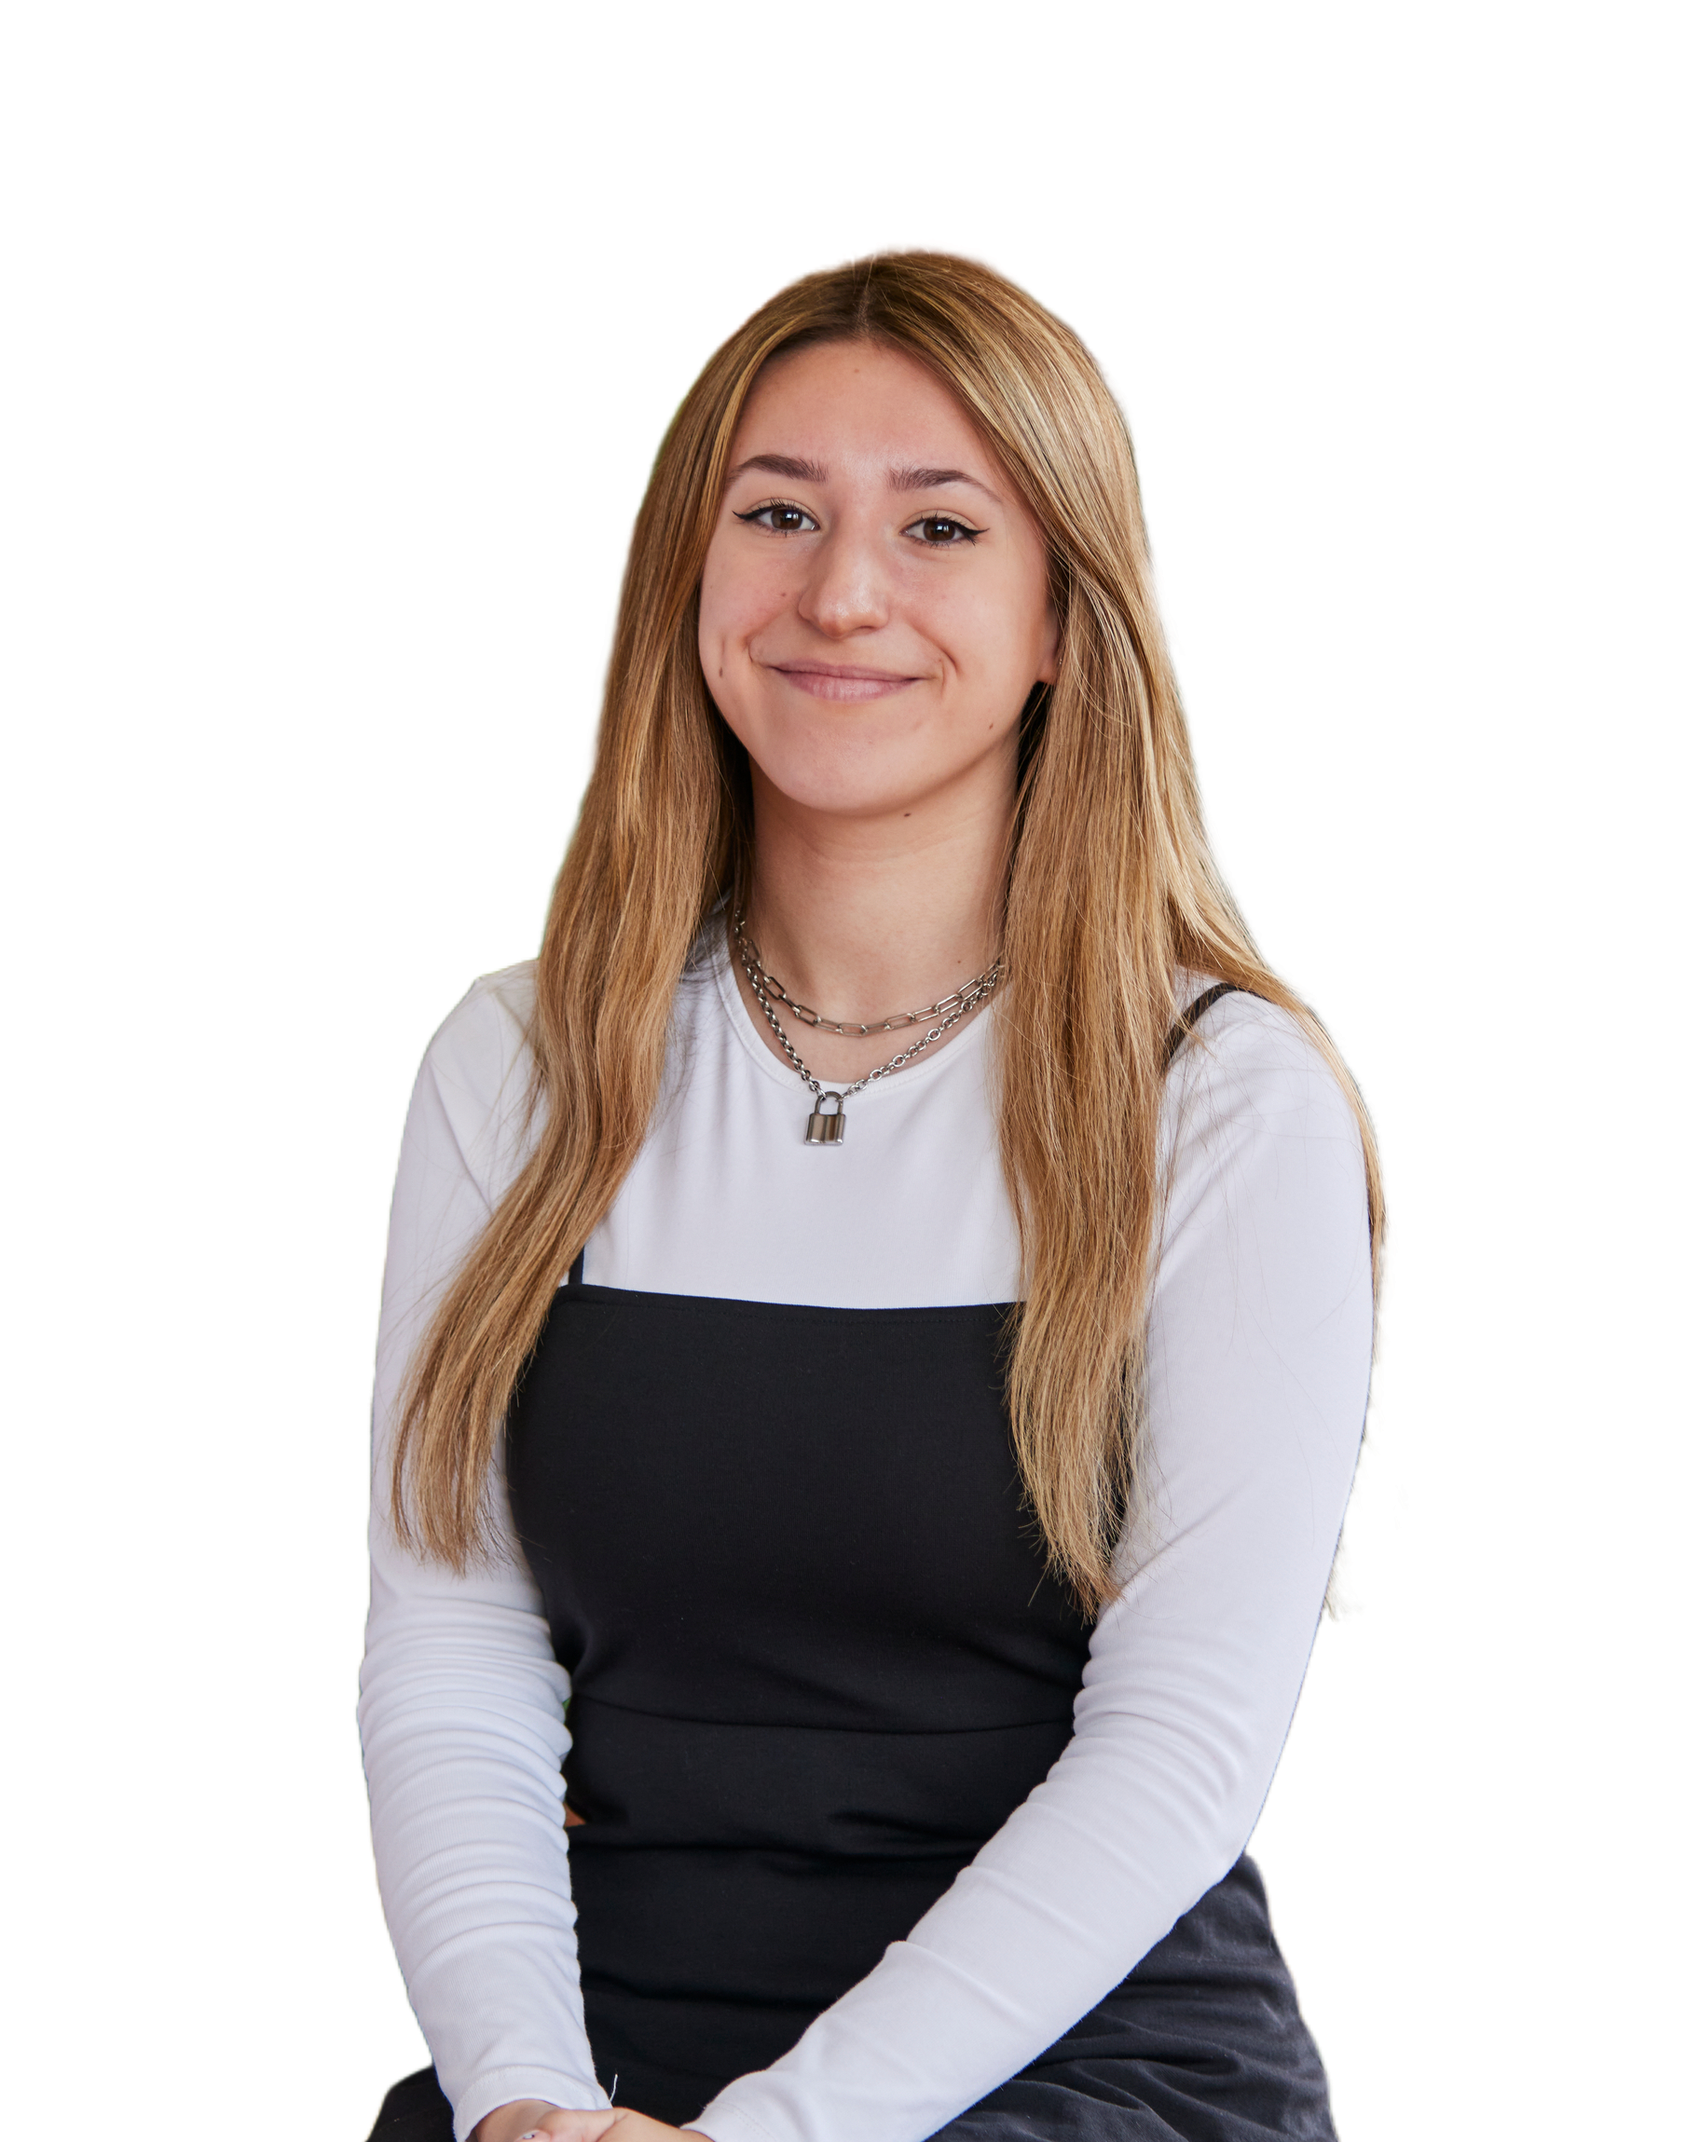
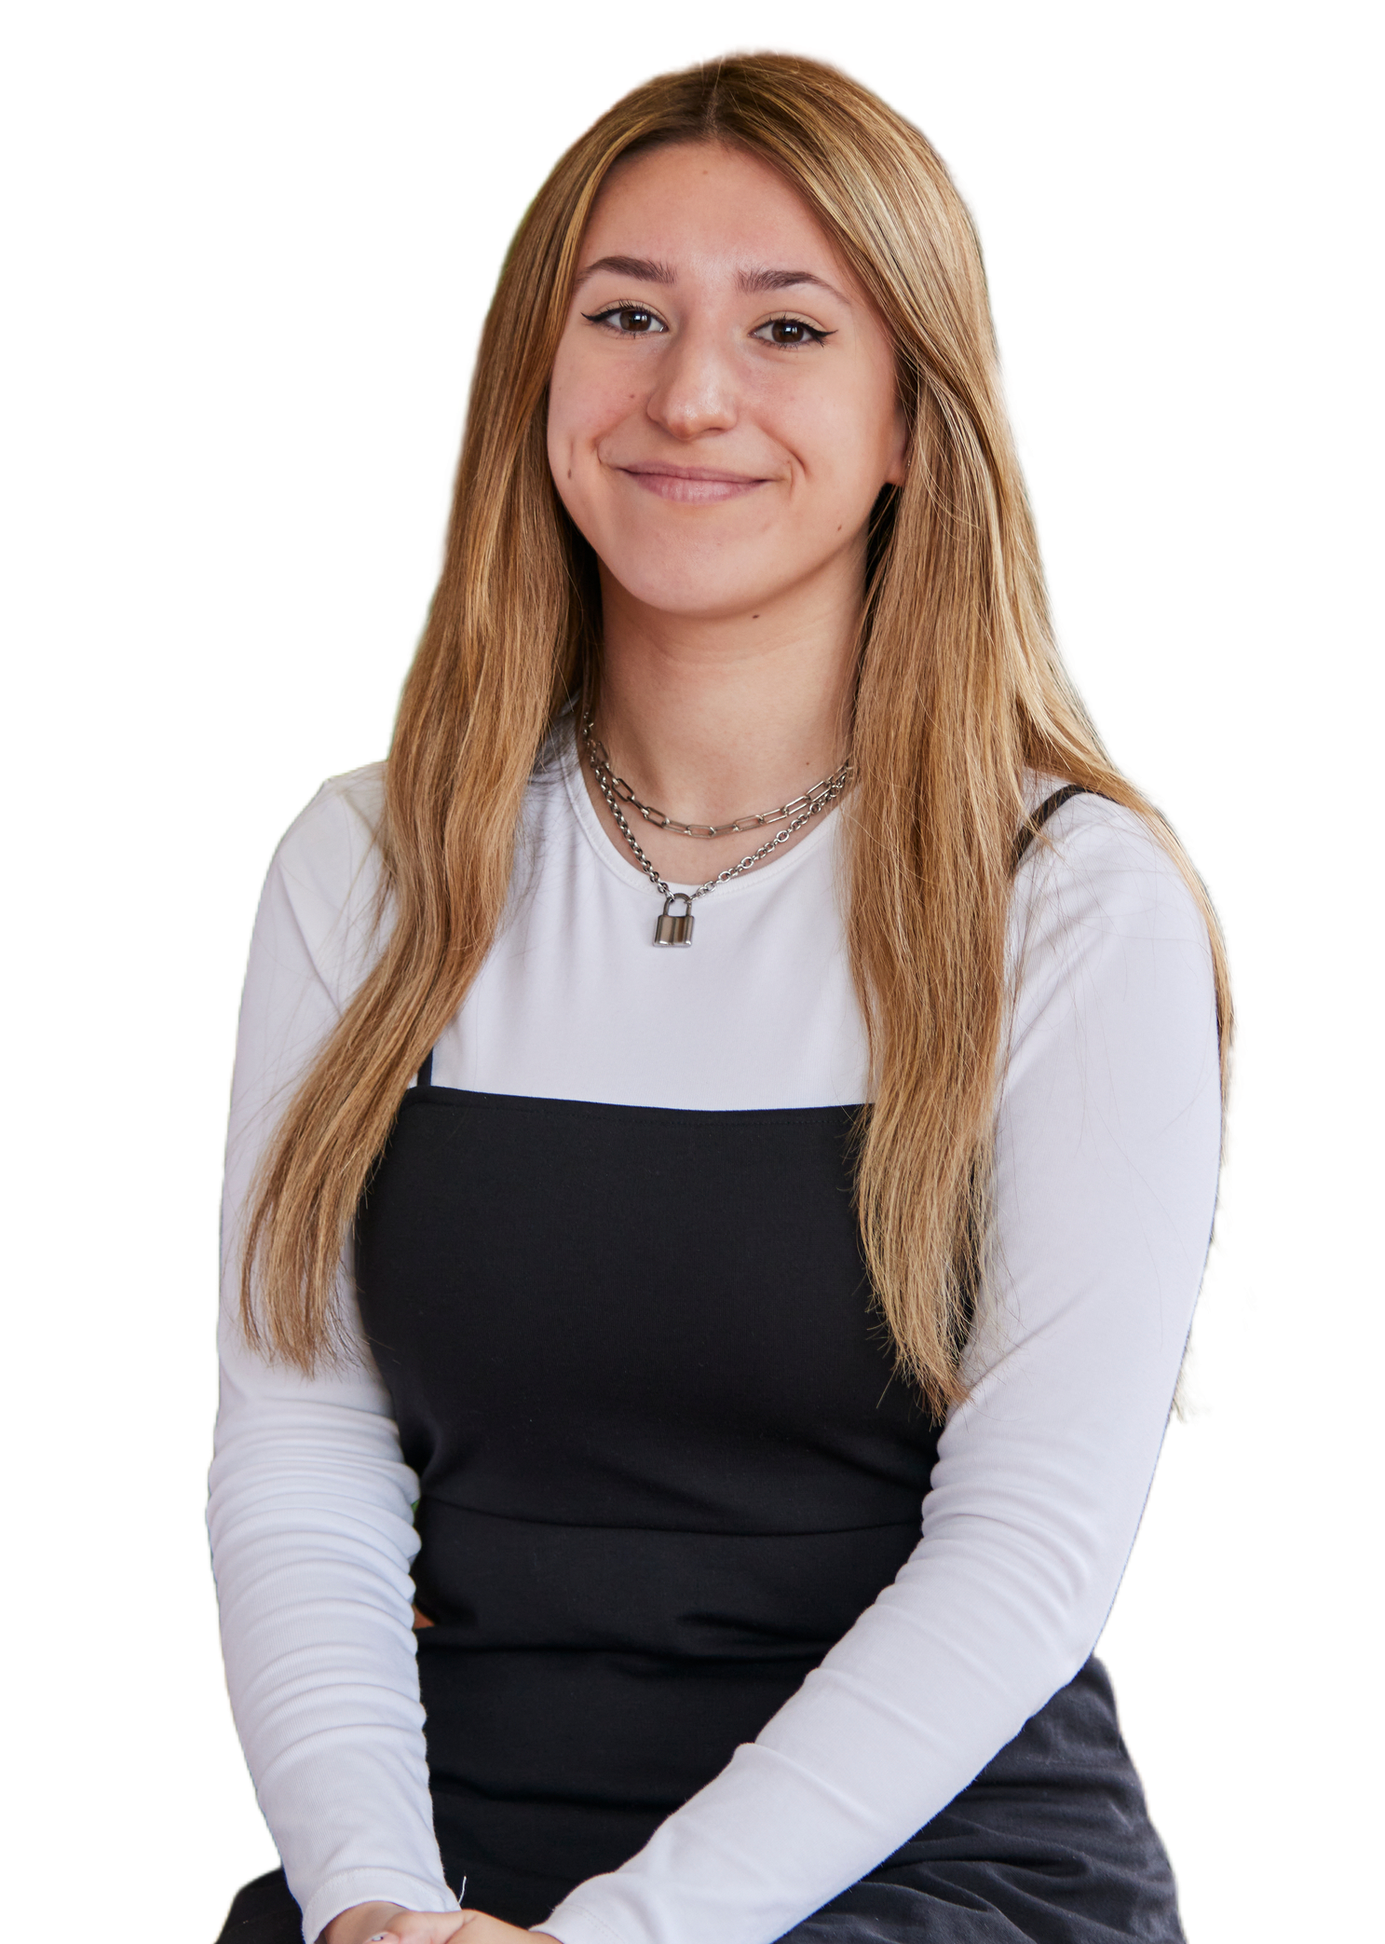
added FDS screenshot and url to portfolio page

diff --git a/src/data.js b/src/data.js
@@ -38,7 +38,7 @@ export const reactPortfolio = [
   {
     id: 5,
     title: "React Portfolio",
-    img: "",
+    img: "https://res.cloudinary.com/eriisu/image/upload/v1633120520/react-portfolio_hxupps.png",
     url: "https://www.emjb.co.uk",
   },
 ];
@@ -59,7 +59,7 @@ export const htmlPortfolio = [
   {
     id: 6,
     title: "Fever Dream Studios",
-    img: "",
-    url: "",
+    img: "https://res.cloudinary.com/eriisu/image/upload/v1633120208/fever-dream-studios_vlrvst.png",
+    url: "https://eriisu.github.io/fever-dream-studios/",
   },
 ];

diff --git a/src/components/intro/intro.scss b/src/components/intro/intro.scss
@@ -30,7 +30,7 @@
        img {
          height: 100%;
          position: absolute;
-         left: 50px;
+         left: 100px;
          top: 50px;
        }
      }
